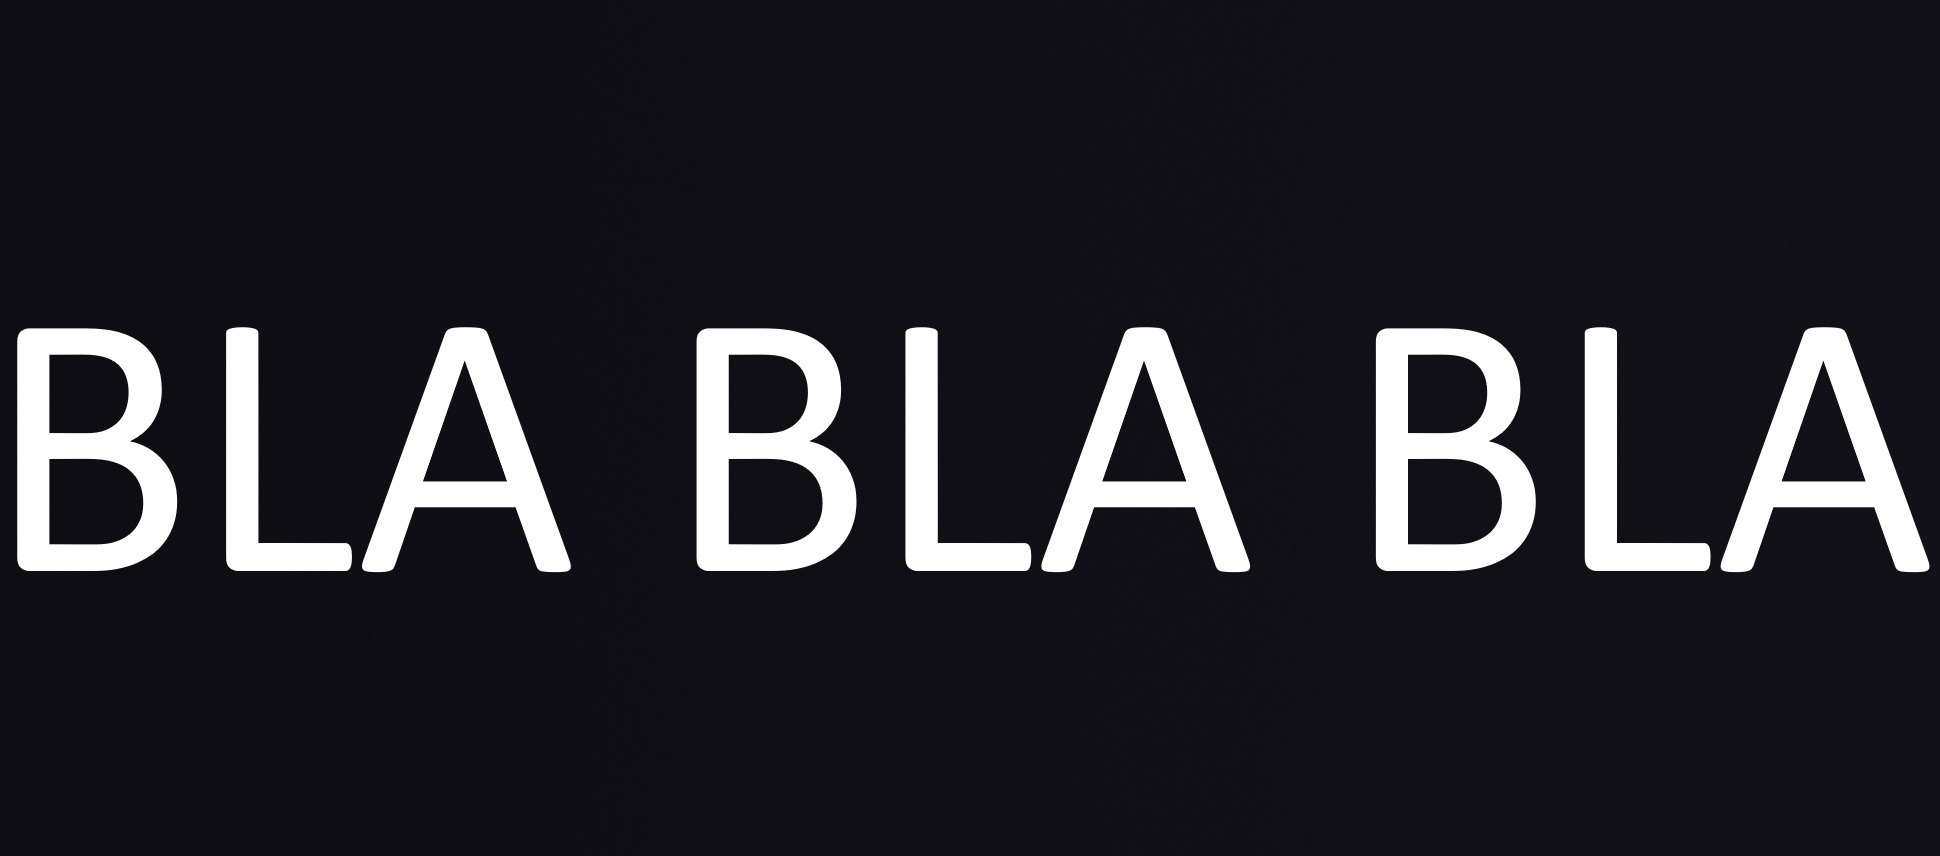
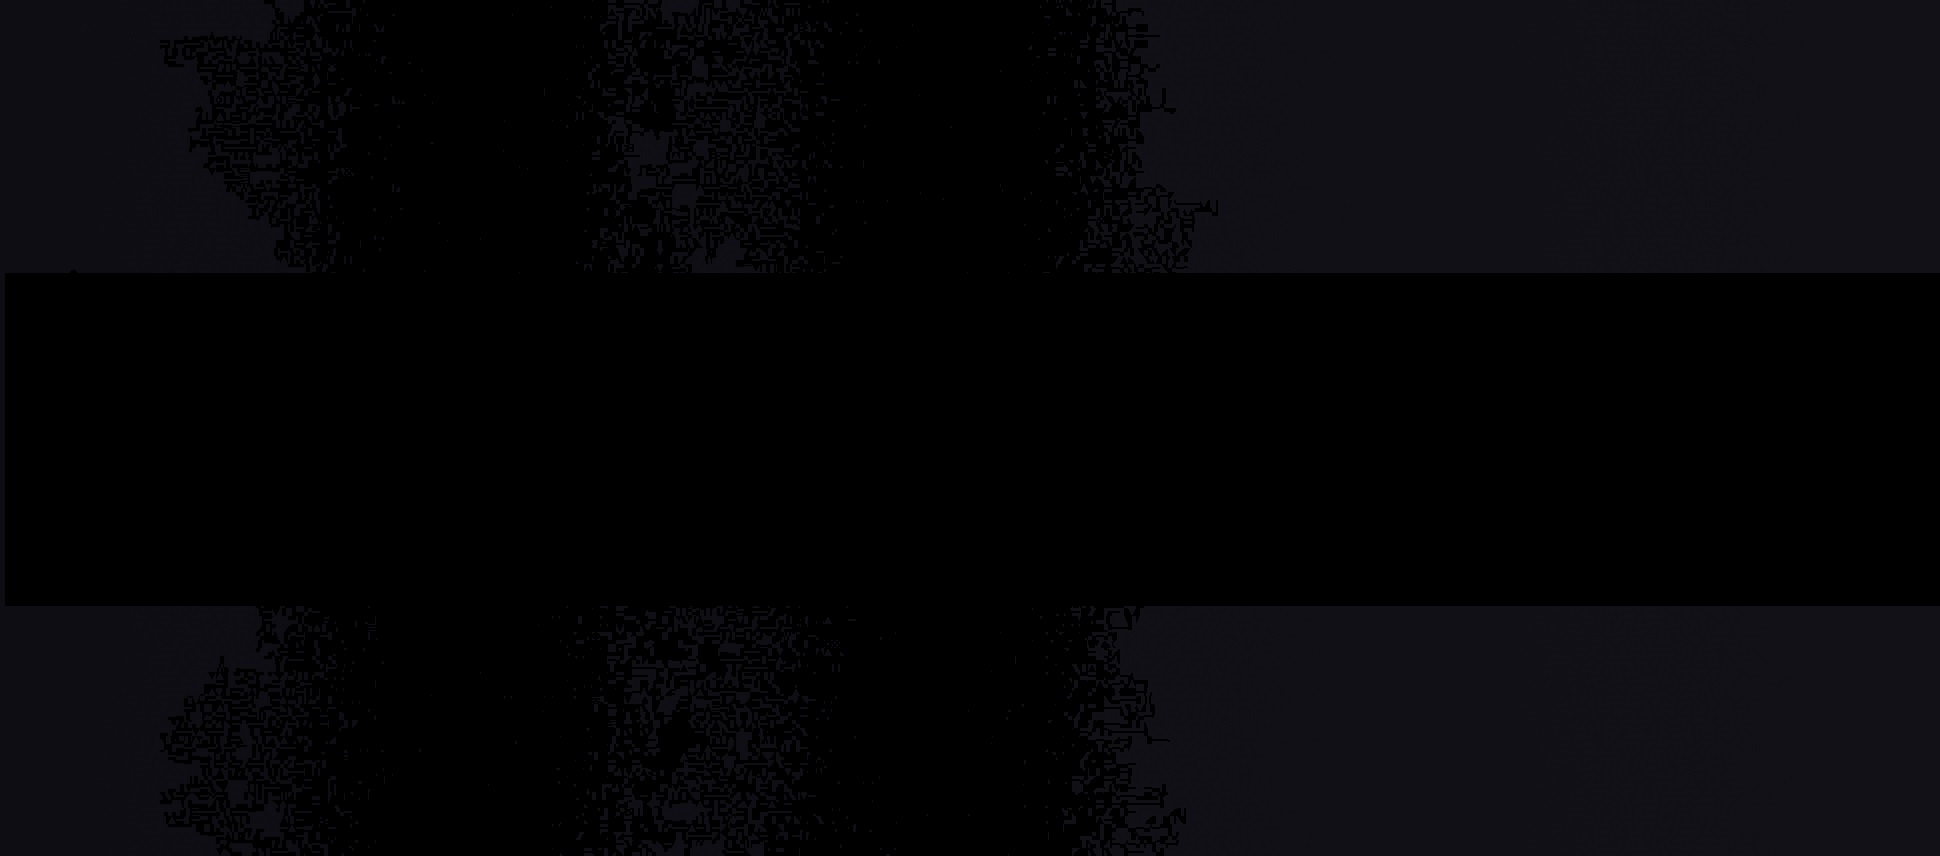
Add files via upload

Changed region(s): [[0.3402, 0.3645, 0.6495, 0.6682], [0.0, 0.3645, 0.3093, 0.6682], [0.7113, 0.3645, 1.0, 0.6682]]

diff --git a/css/styles.css b/css/styles.css
@@ -2,7 +2,7 @@
 
 /* Style for body specifies a background color */
 body {
-	Background-color: #1D1D1C;
+	Background-color: #FFFFFF;
 }
 
 /* Style to create a fluid image */
@@ -329,7 +329,7 @@ nav li a:hover {
  
 /* Style specifies border, shadow, margin, and padding for main elements */
 main {
-	background-color: #1D1D1C;
+	background-color: #FFFFFF;
 }
 
 /* Style specifies left and right padding for paragraph elements within the main elements */

diff --git a/js/welcome.js b/js/welcome.js
@@ -1,0 +1,15 @@
+var today = new Date();
+var hourNow = today.getHours();
+var greeting;
+
+if (hourNow > 18) {
+    greeting = 'Good evening!';
+} else if (hourNow > 12) {
+    greeting = 'Good afternoon!';
+} else if (hourNow > 0) {
+    greeting = 'Good morning!';
+} else {
+    greeting = 'Welcome!';
+}
+
+document.write('<h3>' + greeting + '</h3>');
